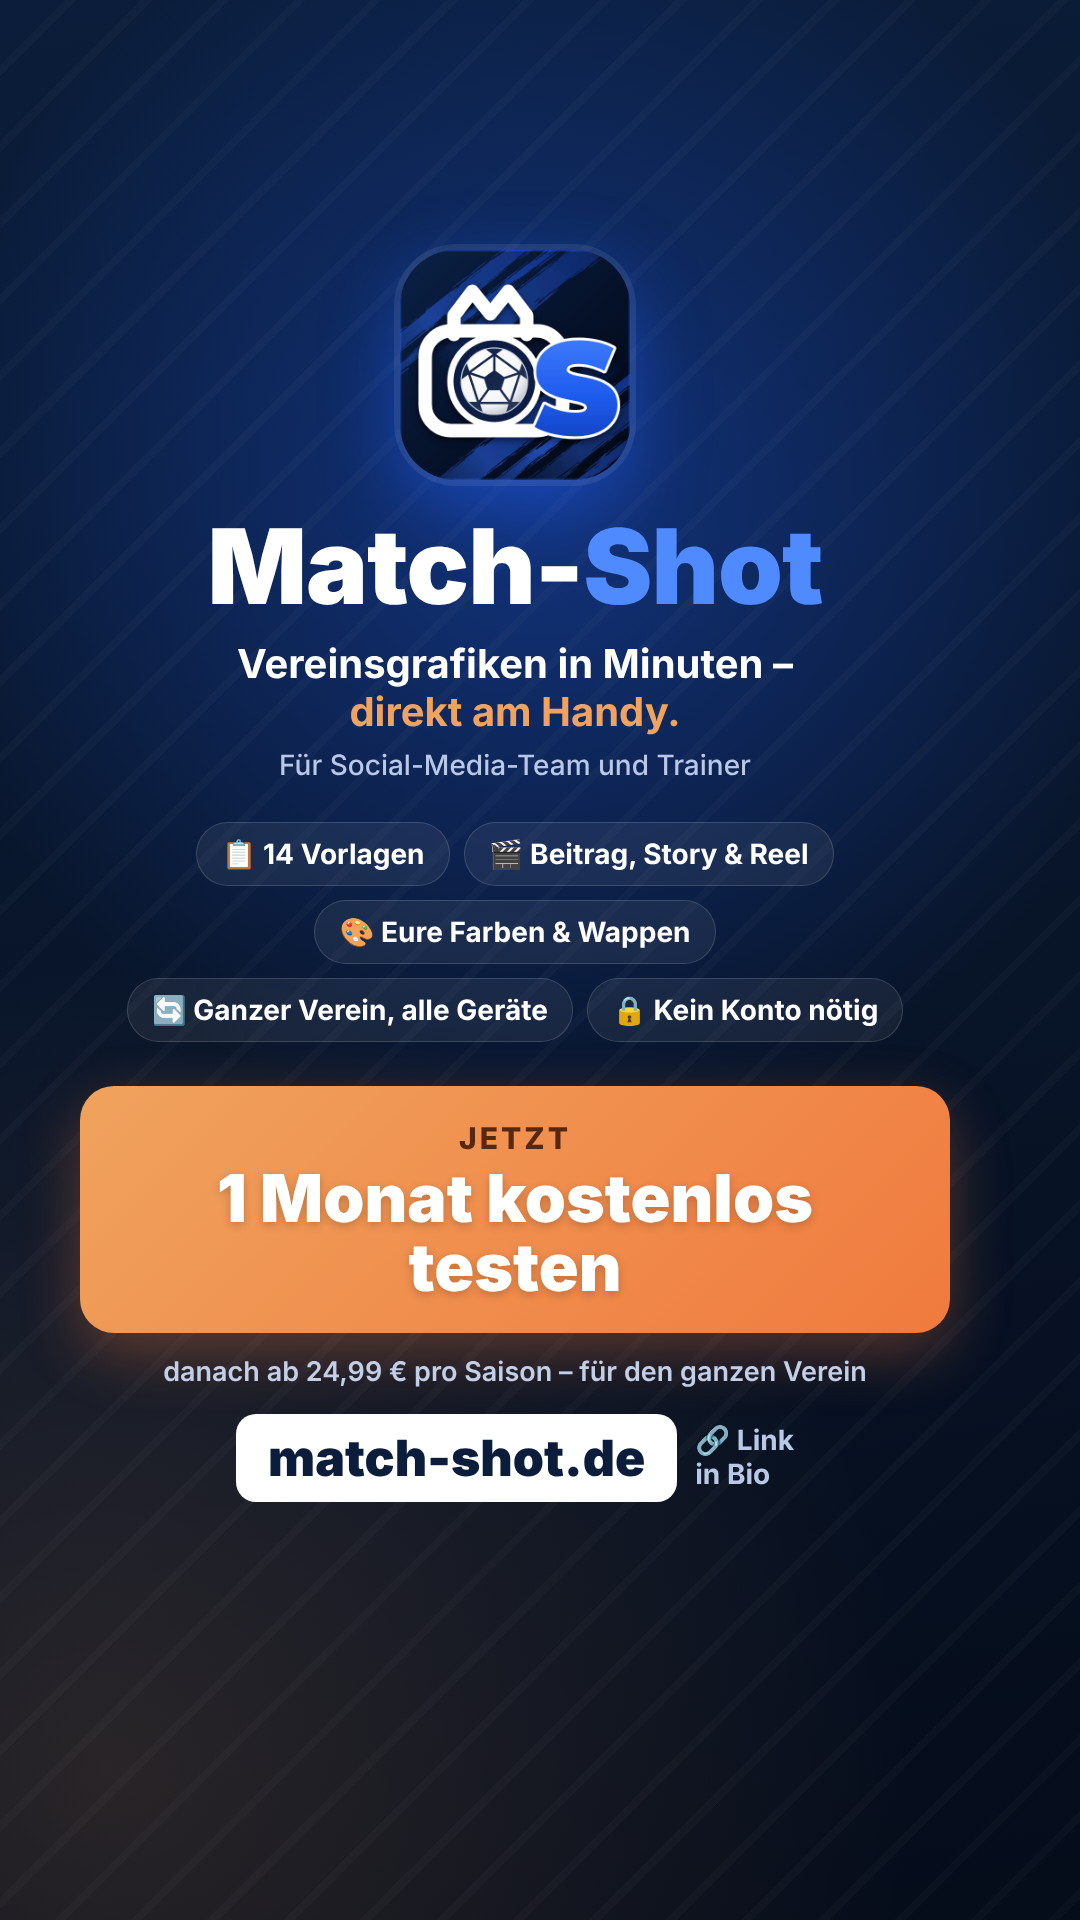
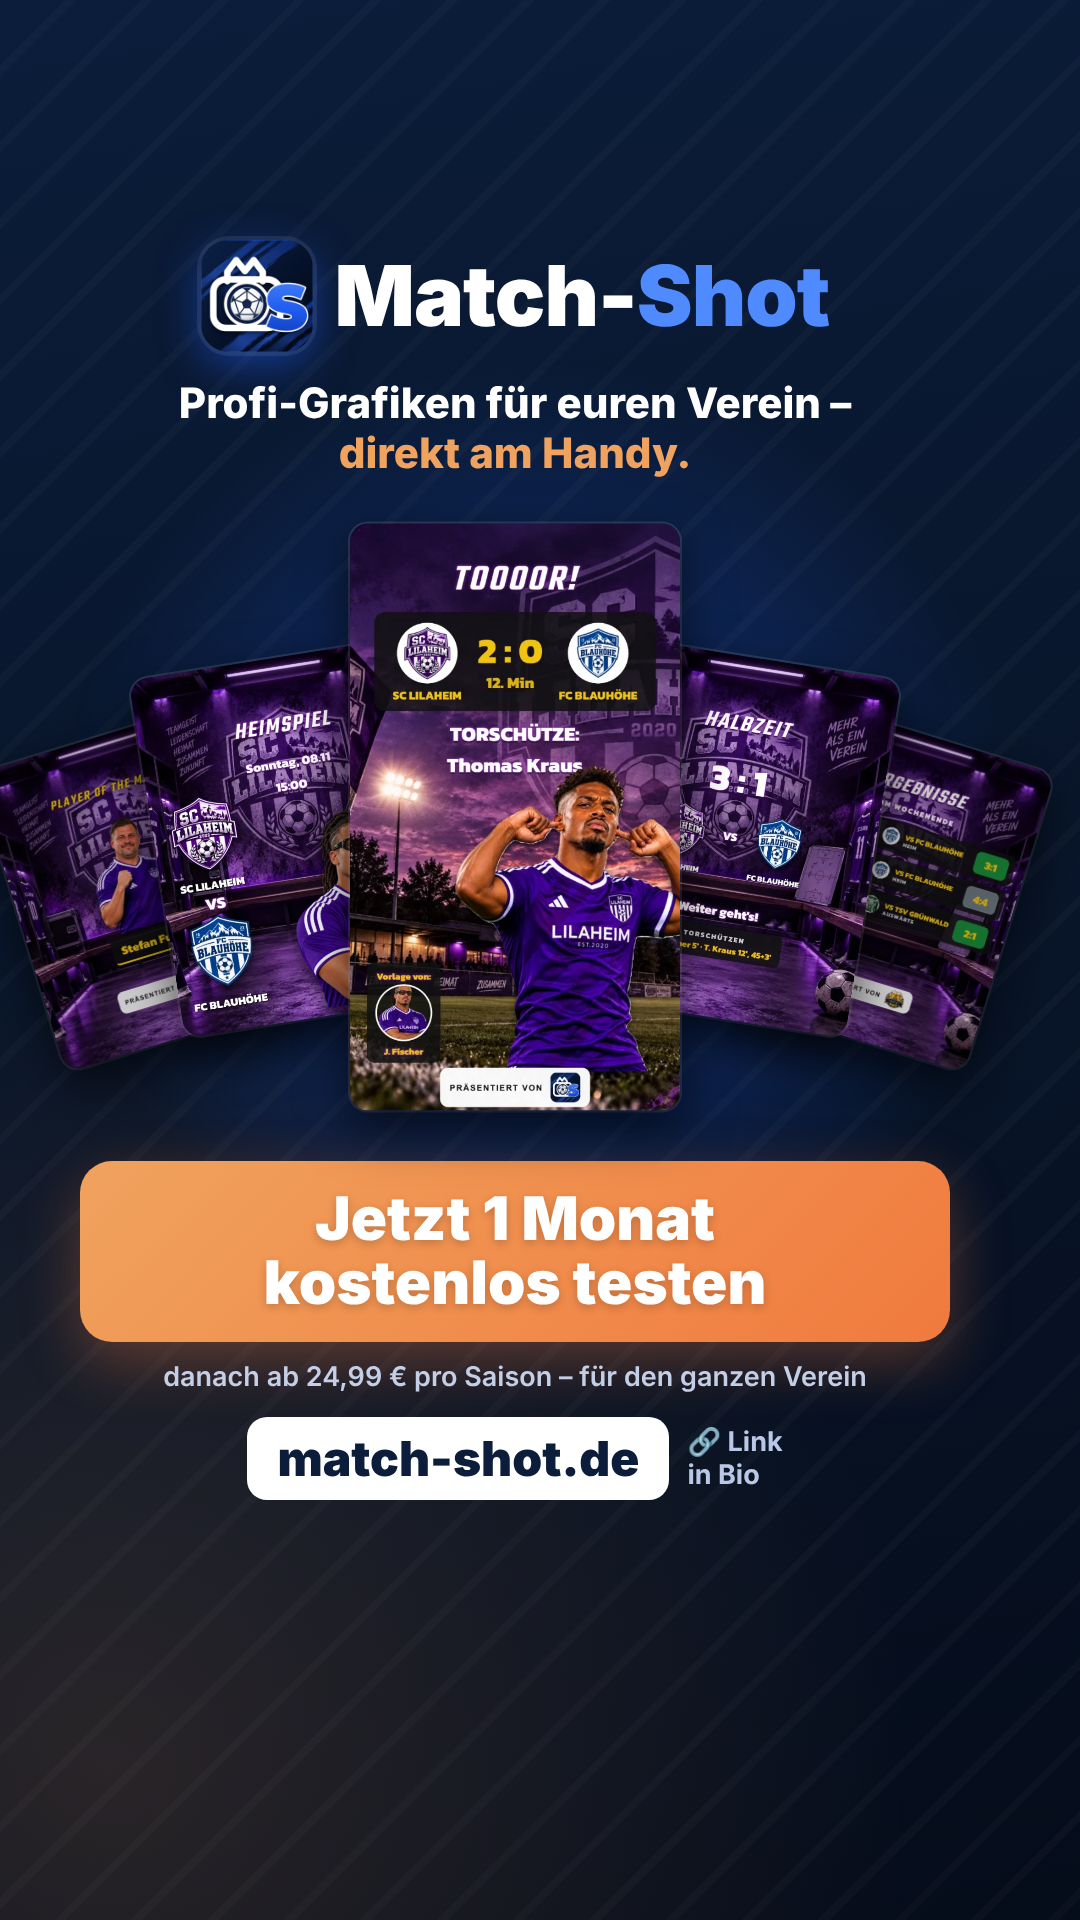
Instagram: Reel-Abschluss mit Fächer aus 5 Beispielgrafiken statt Infoliste
Claude-Session: https://claude.ai/code/session_013X7zmRun5NbsiuuRAVPd1D

diff --git a/marketing/instagram/abschluss.html b/marketing/instagram/abschluss.html
@@ -1,39 +1,45 @@
 <!doctype html><html lang="de"><head><meta charset="utf-8"><style>
-/* Abschluss-Bild für Reels (1080 × 1920). Alles Wichtige liegt in der sicheren Zone:
-   oben 250 px, unten 420 px und rechts 130 px frei (dort liegen Instagrams Name, Text und Knöpfe). */
+/* Abschluss-Bild für Reels (1080 × 1920). Texte liegen in der sicheren Zone:
+   oben 250 px, unten 420 px und rechts 130 px frei (dort liegen Instagrams Name, Text und Knöpfe).
+   Beispielgrafiken aus landing/ (erfundener Beispielverein). */
 *{box-sizing:border-box;margin:0;padding:0}
 body{width:1080px;height:1920px;font-family:Inter,Arial,sans-serif;color:#fff;overflow:hidden;position:relative;
- background:radial-gradient(circle at 50% 26%,#1f5cf066 0,transparent 42%),radial-gradient(circle at 10% 92%,#f0a35e26 0,transparent 40%),linear-gradient(170deg,#0b1d3a 0%,#081428 55%,#050c1a 100%)}
+ background:radial-gradient(circle at 50% 44%,#1f5cf070 0,transparent 40%),radial-gradient(circle at 10% 92%,#f0a35e26 0,transparent 40%),linear-gradient(170deg,#0b1d3a 0%,#081428 55%,#050c1a 100%)}
 .stripes{position:absolute;inset:0;background:repeating-linear-gradient(135deg,transparent 0 46px,#ffffff06 46px 54px)}
-.wrap{position:absolute;top:250px;left:80px;right:130px;bottom:420px;display:flex;flex-direction:column;align-items:center;text-align:center}
-.logo{width:230px;height:230px;border-radius:56px;box-shadow:0 0 0 6px #ffffff14,0 24px 70px #1f5cf080}
-.name{font-size:104px;font-weight:900;letter-spacing:-1px;margin-top:34px;line-height:1}
-.name span{color:#4f8bff}
-.tag{font-size:40px;font-weight:700;margin-top:22px;line-height:1.2}
+.wrap{position:absolute;top:240px;left:80px;right:130px;bottom:420px;display:flex;flex-direction:column;align-items:center;text-align:center}
+.brand{display:flex;align-items:center;gap:22px}
+.brand img{width:112px;height:112px;border-radius:28px;box-shadow:0 0 0 4px #ffffff14,0 12px 40px #1f5cf080}
+.brand div{font-size:84px;font-weight:900;letter-spacing:-1px;line-height:1}
+.brand span{color:#4f8bff}
+.tag{font-size:42px;font-weight:800;margin-top:26px;line-height:1.18}
 .tag span{color:#f0a35e}
-.sub{font-size:28px;color:#b9c8e6;margin-top:12px;font-weight:500}
-.chips{display:flex;flex-wrap:wrap;justify-content:center;gap:14px;margin:40px 0 44px;max-width:860px}
-.chip{background:#ffffff10;border:1px solid #ffffff26;border-radius:999px;padding:14px 24px;font-size:28px;font-weight:700;white-space:nowrap}
-.cta{margin-top:auto;width:100%;background:linear-gradient(135deg,#f0a35e,#f07a3e);border-radius:34px;padding:34px 30px 30px;box-shadow:0 20px 60px #f07a3e55}
-.cta b{display:block;font-size:30px;font-weight:800;letter-spacing:3px;text-transform:uppercase;color:#3b1606;opacity:.85}
-.cta div{font-size:66px;font-weight:900;line-height:1.05;margin-top:8px;color:#fff;text-shadow:0 3px 10px #0003}
-.price{font-size:27px;color:#c3cfe6;margin-top:22px;font-weight:600}
-.url{margin-top:26px;display:flex;align-items:center;gap:18px}
-.url .u{font-size:50px;font-weight:900;background:#fff;color:#0b1d3a;padding:14px 32px;border-radius:20px}
-.url .l{font-size:28px;font-weight:700;color:#b9c8e6;text-align:left;line-height:1.2}
+/* Fächer mit Beispielgrafiken */
+.fan{position:relative;width:100%;height:640px;margin-top:20px}
+.fan img{position:absolute;left:50%;top:50%;border-radius:18px;box-shadow:0 18px 50px #000a,0 0 0 2px #ffffff22;object-fit:cover}
+.c0{width:330px;height:587px;transform:translate(-50%,-50%);z-index:5}
+.c1,.c2{width:290px;height:362px;z-index:4}
+.c1{transform:translate(calc(-50% - 215px),calc(-50% + 20px)) rotate(-9deg)}
+.c2{transform:translate(calc(-50% + 215px),calc(-50% + 20px)) rotate(9deg)}
+.c3,.c4{width:250px;height:312px;z-index:3;filter:brightness(.82)}
+.c3{transform:translate(calc(-50% - 375px),calc(-50% + 70px)) rotate(-17deg)}
+.c4{transform:translate(calc(-50% + 375px),calc(-50% + 70px)) rotate(17deg)}
+.cta{margin-top:24px;width:100%;background:linear-gradient(135deg,#f0a35e,#f07a3e);border-radius:32px;padding:26px 26px 28px;box-shadow:0 20px 60px #f07a3e55;
+ font-size:60px;font-weight:900;line-height:1.06;text-shadow:0 3px 10px #0003}
+.price{font-size:27px;color:#c3cfe6;margin-top:18px;font-weight:600}
+.url{margin-top:auto;display:flex;align-items:center;gap:18px}
+.url .u{font-size:48px;font-weight:900;background:#fff;color:#0b1d3a;padding:12px 30px;border-radius:20px}
+.url .l{font-size:27px;font-weight:700;color:#b9c8e6;text-align:left;line-height:1.2}
 </style></head><body><div class="stripes"></div><div class="wrap">
-<img class="logo" src="../../icons/icon-512.png" alt="">
-<div class="name">Match-<span>Shot</span></div>
-<div class="tag">Vereinsgrafiken in Minuten –<br><span>direkt am Handy.</span></div>
-<div class="sub">Für Social-Media-Team und Trainer</div>
-<div class="chips">
- <div class="chip">📋 14 Vorlagen</div>
- <div class="chip">🎬 Beitrag, Story &amp; Reel</div>
- <div class="chip">🎨 Eure Farben &amp; Wappen</div>
- <div class="chip">🔄 Ganzer Verein, alle Geräte</div>
- <div class="chip">🔒 Kein Konto nötig</div>
+<div class="brand"><img src="../../icons/icon-512.png" alt=""><div>Match-<span>Shot</span></div></div>
+<div class="tag">Profi-Grafiken für euren Verein –<br><span>direkt am Handy.</span></div>
+<div class="fan">
+ <img class="c3" src="../../landing/potm.webp" alt="">
+ <img class="c4" src="../../landing/wochenende.webp" alt="">
+ <img class="c1" src="../../landing/post-feed.webp" alt="">
+ <img class="c2" src="../../landing/ergebnis.webp" alt="">
+ <img class="c0" src="../../landing/tor.webp" alt="">
 </div>
-<div class="cta"><b>Jetzt</b><div>1 Monat kostenlos testen</div></div>
+<div class="cta">Jetzt 1 Monat<br>kostenlos testen</div>
 <div class="price">danach ab 24,99 € pro Saison – für den ganzen Verein</div>
 <div class="url"><div class="u">match-shot.de</div><div class="l">🔗 Link<br>in Bio</div></div>
 </div></body></html>

diff --git a/marketing/instagram/reels-skripte.md b/marketing/instagram/reels-skripte.md
@@ -126,7 +126,7 @@ Handy 1: Start → 🔄 Vereins-Sync → ⬆ Hochladen → „📤 Passwort a
 
 ## Schluss-Satz (für jedes Reel einer davon)
 
-**Abschluss-Bild:** `out/Match-Shot_Reel-Abschluss.png` (9:16) als letzte 2–3 Sekunden ans Ende jedes Reels hängen – Logo, „Jetzt 1 Monat kostenlos testen“, Preis und match-shot.de. Neu erzeugen: `node marketing/instagram/render.js` (Vorlage `abschluss.html`).
+**Abschluss-Bild:** `out/Match-Shot_Reel-Abschluss.png` (9:16) als letzte 2–3 Sekunden ans Ende jedes Reels hängen – Logo, Fächer mit 5 Beispielgrafiken, „Jetzt 1 Monat kostenlos testen“, Preis und match-shot.de. Neu erzeugen: `node marketing/instagram/render.js` (Vorlage `abschluss.html`).
 
 - „Probiert's aus – der erste Monat ist kostenlos. Link in meiner Bio.“
 - „Wenn ihr das auch für euren Verein wollt: match-shot.de – erster Monat geht auf mich.“
